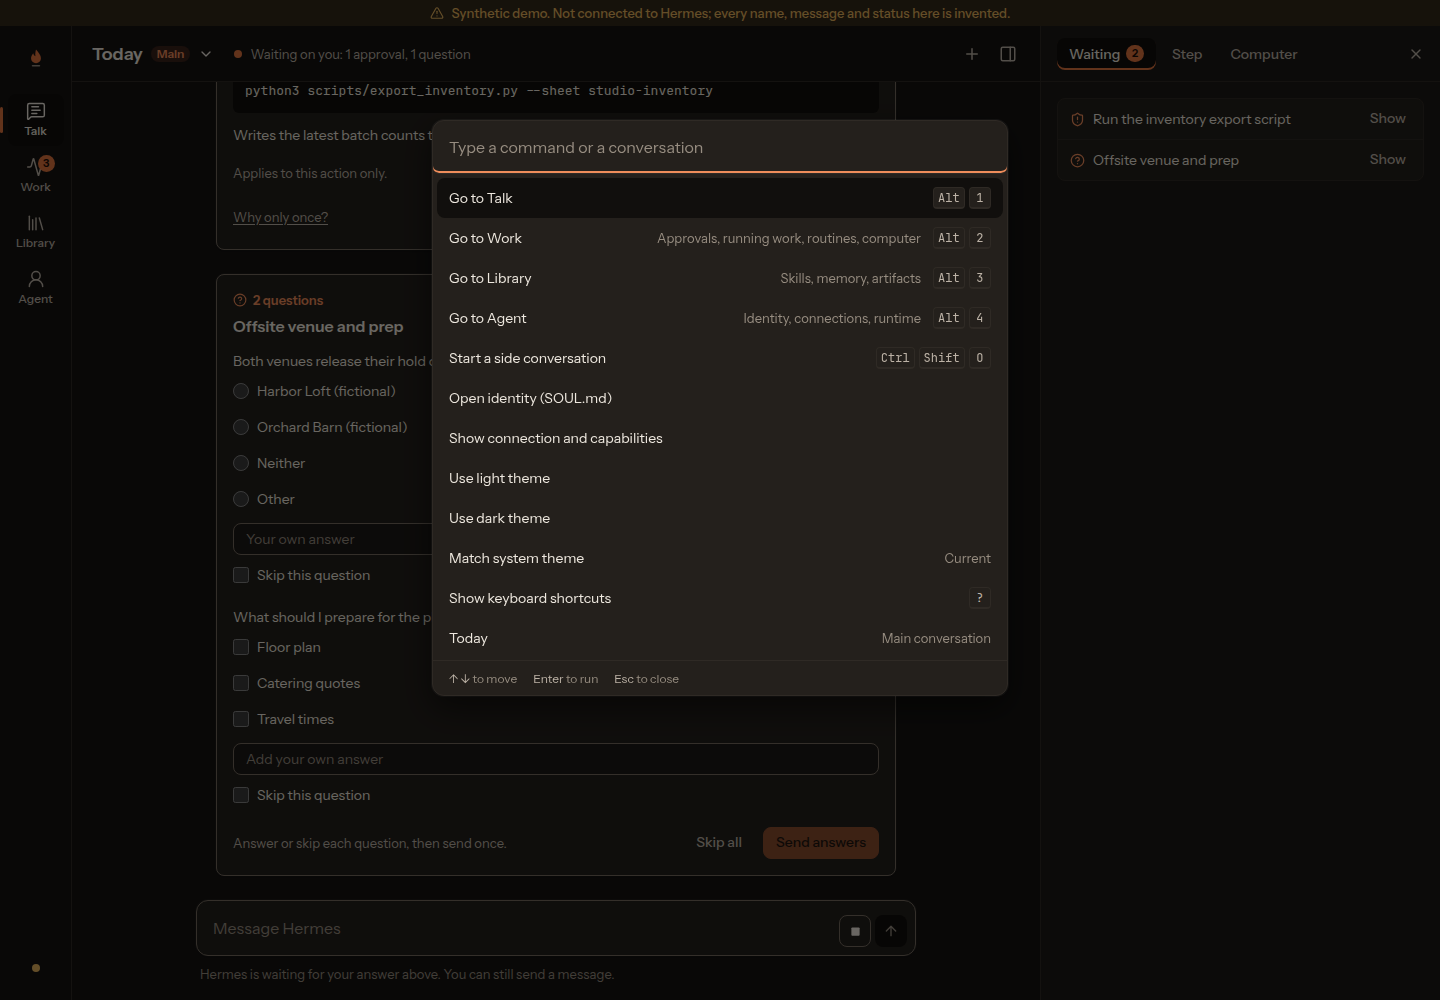
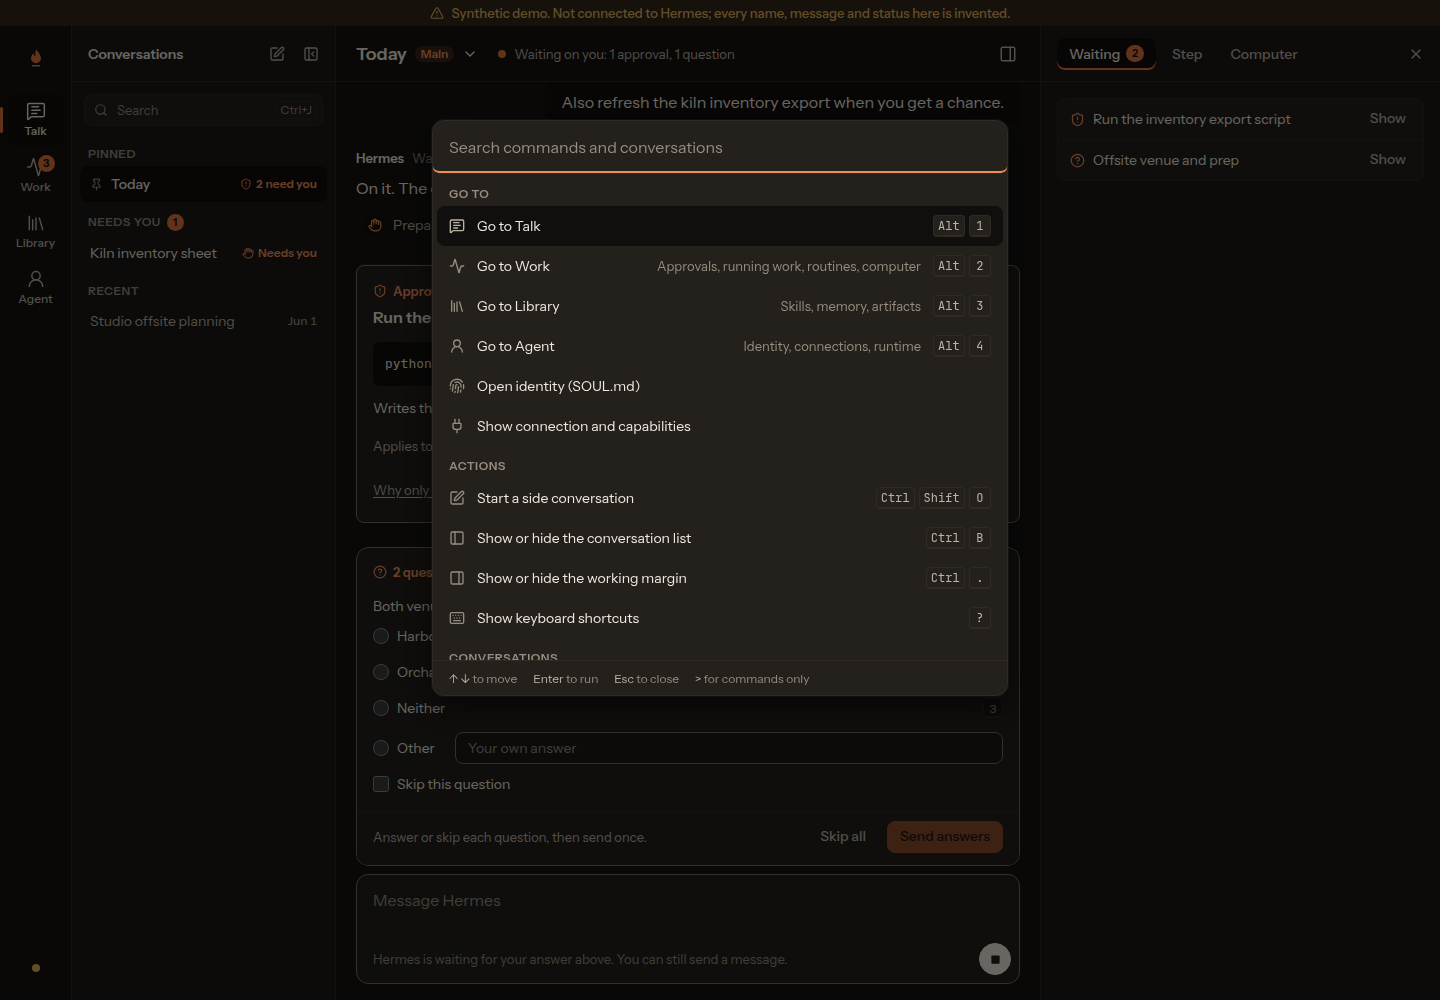
Show Talk's workspace in the handbook's screenshots
Recaptured from the synthetic demo at this branch: Talk on a wide screen
with the conversation list and the docked question set, the margin's
Computer tool beside the list, the grouped palette, the tablet with its
docked set, and the desktop app at its default window size. A new one shows
a side conversation marked Done, finished steps folded into one line and
the question set folded to its line. The alt text says what each now shows.

diff --git a/docs/handbook/clients/web.md b/docs/handbook/clients/web.md
@@ -133,9 +133,11 @@ Screenshots of the synthetic demo (every name, message and status is
 invented; the banner says so), and of the desktop app's signed-out screen,
 which has no data to label.
 
-![Talk on a wide screen: an approval and a question set waiting, with the working margin open on its Waiting tool listing both](/screenshots/web/talk-desktop-light.png)
+![Talk on a wide screen: the conversation list beside the conversation, an approval in the conversation and a question set docked above the composer, with the working margin open on its Waiting tool listing both](/screenshots/web/talk-desktop-light.png)
 
 ![The working margin's Computer tool beside the conversation: the agent's synthetic screen, live, with its status and Take control](/screenshots/web/talk-margin-computer-light.png)
+
+![Talk in the dark theme: a side conversation Hermes finished out of sight marked Done in the list, finished steps folded into one line, and the question set folded to its line above the composer](/screenshots/web/talk-workspace-dark.png)
 
 ![Work on a phone in the dark theme: a sudo prompt Cindl does not answer, above an approval](/screenshots/web/work-phone-dark.png)
 
@@ -143,11 +145,11 @@ which has no data to label.
 
 ![Deleting a memory entry on a phone: Cindl warns that Hermes keeps no backup](/screenshots/web/memory-delete-phone-dark.png)
 
-![Talk on a tablet in the dark theme: day-aware message times, a reply waiting on the owner, and Latest noting that something below needs you](/screenshots/web/talk-tablet-dark.png)
+![Talk on a tablet in the dark theme: an approval in the conversation and the question set docked above the composer, one question at a time with its number keys](/screenshots/web/talk-tablet-dark.png)
 
 ![The conversation list on a phone: a sheet with its own title and close button](/screenshots/web/history-phone-light.png)
 
-![The command palette in the dark theme: the theme in use marked Current, and its keys along the foot](/screenshots/web/palette-desktop-dark.png)
+![The command palette in the dark theme: its rows grouped under Go to and Actions with their icons and keys, and its keys along the foot](/screenshots/web/palette-desktop-dark.png)
 
 ![Agent, Runtime on a phone in the dark theme: the section strip fades where more sections are, and each capability's state sits above its reason](/screenshots/web/agent-runtime-phone-dark.png)
 
